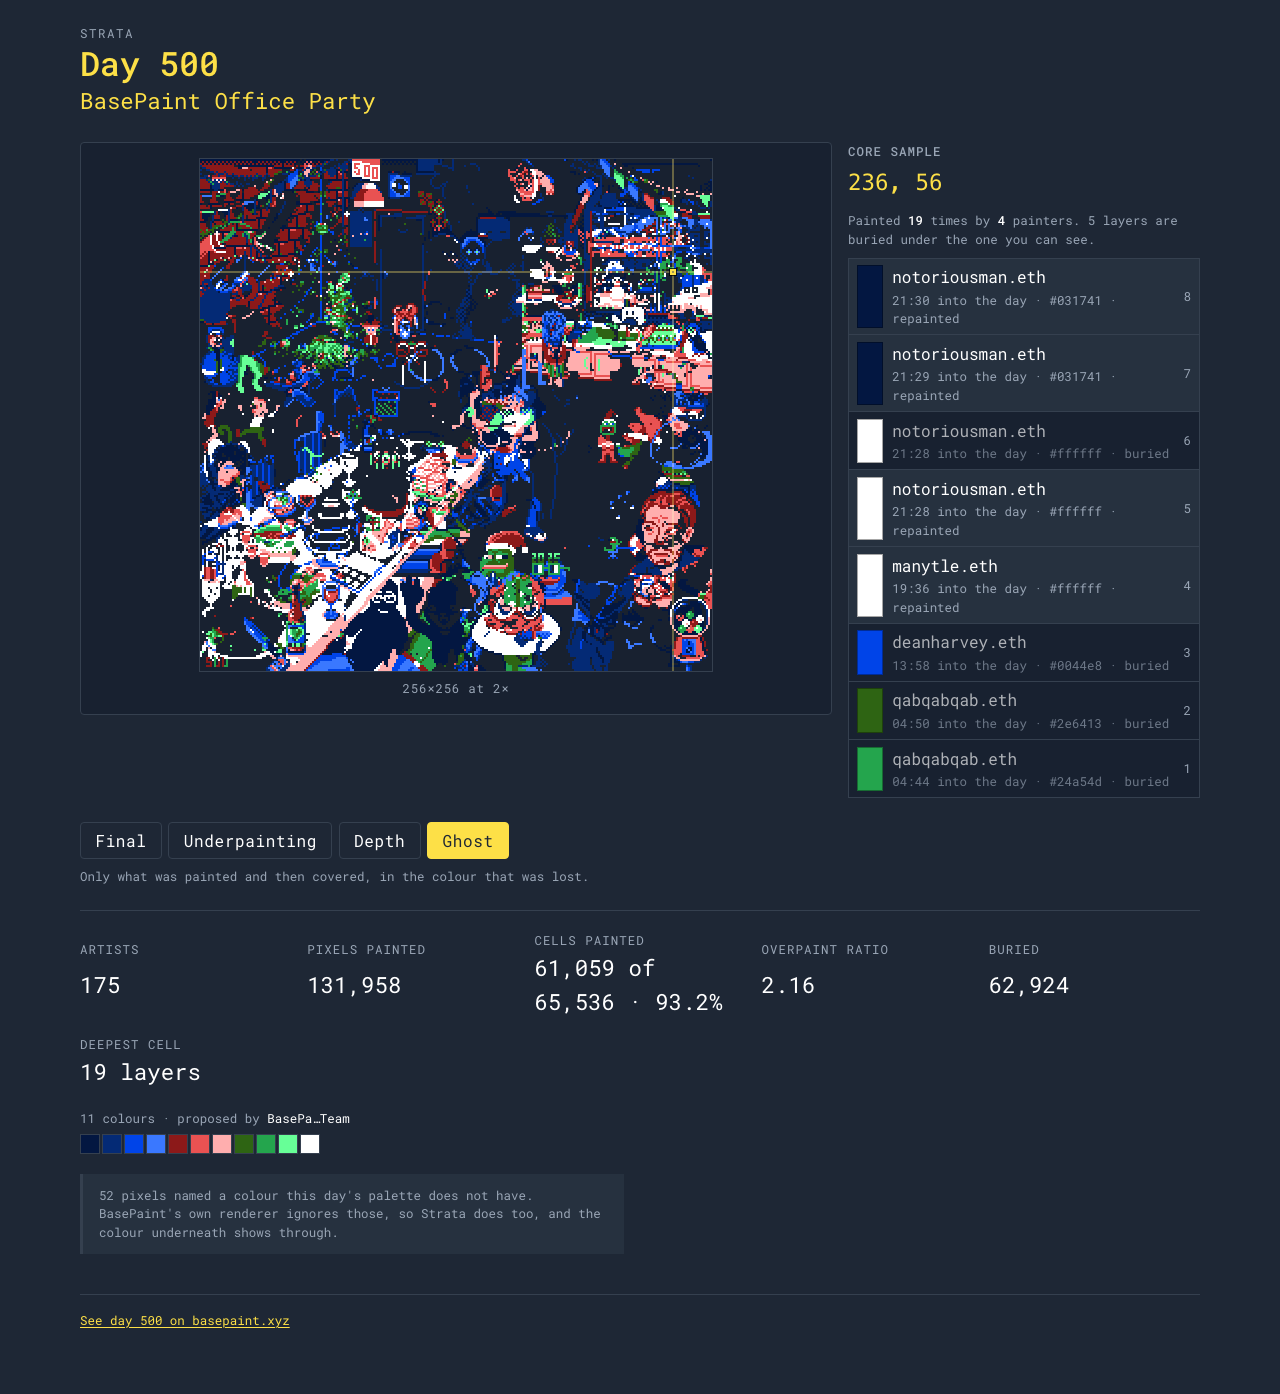
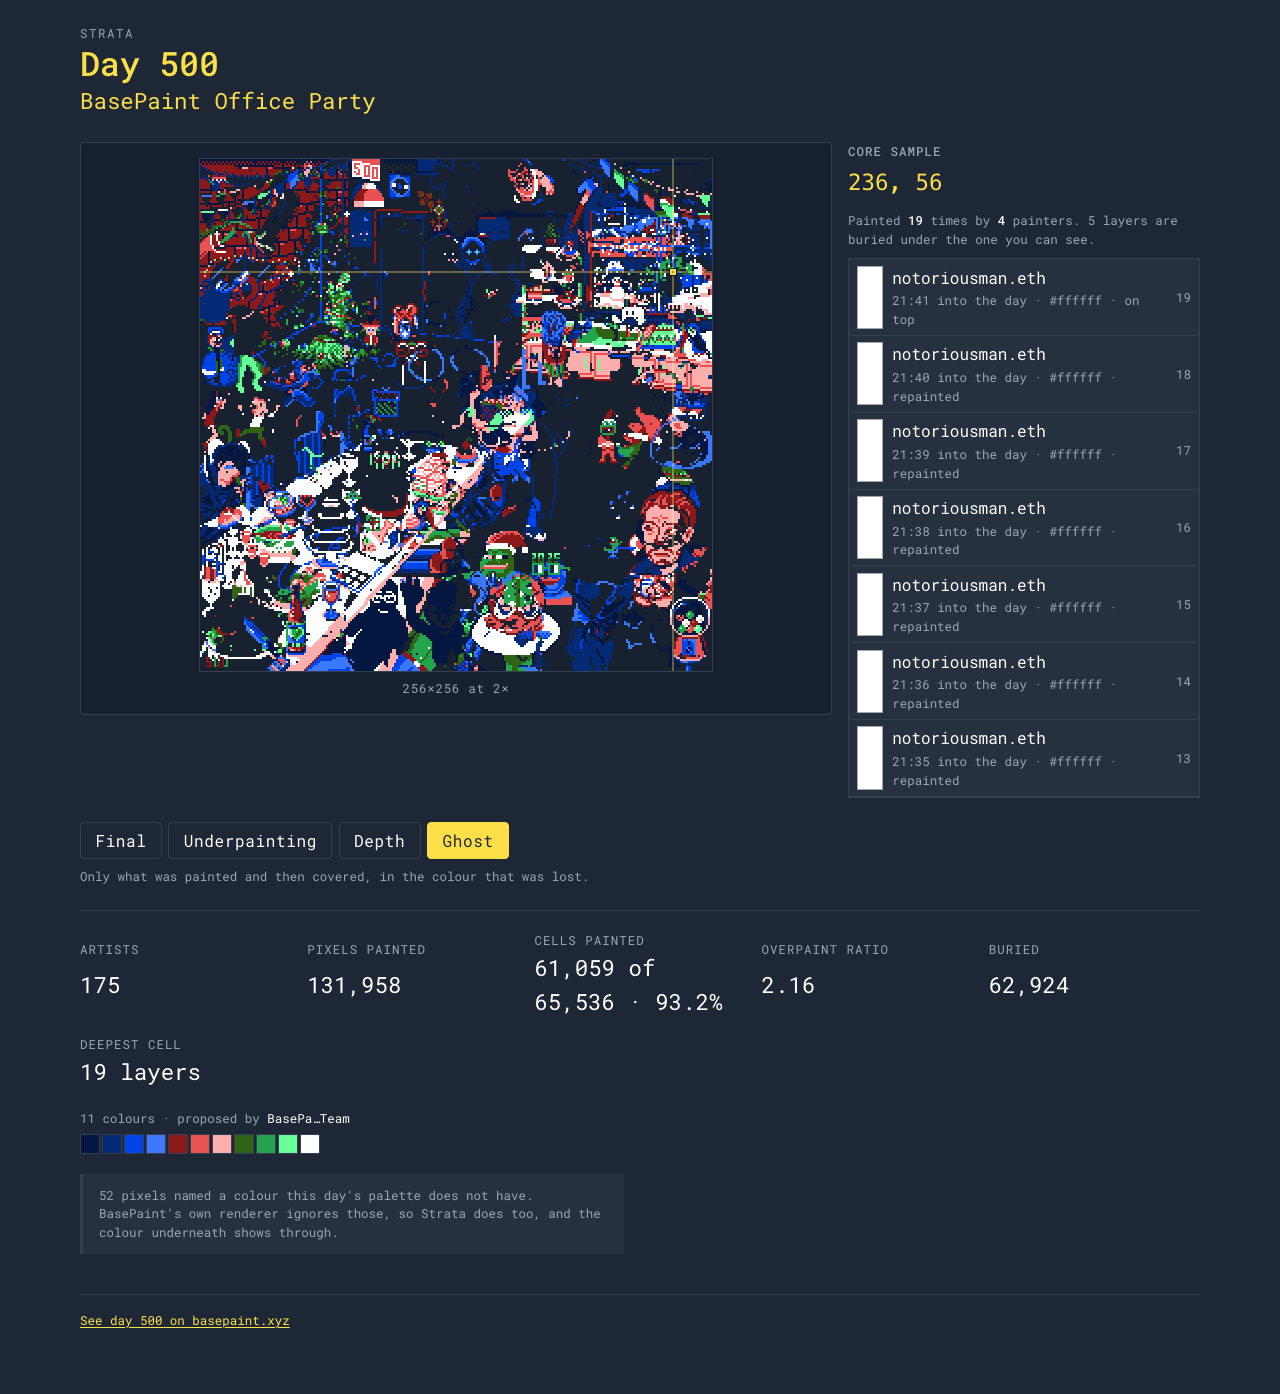
Phase 8, step 31 — the core sample was hiding the layer you can see
Found by opening day 500's deepest cell on a 390px screen. The summary said
"19 times by 4 painters. 5 layers are buried under the one you can see", and
the column below it showed layers 1 through 8 — none of them the one you can
see. The same thing happened at 1280px, where 11 of the 19 were unreachable.

The stack was chronological in the DOM and flipped on screen with
`flex-direction: column-reverse`. A reversed flex container pins its scroll
position to its first child, so once the stack was taller than its 60vh box
it opened on the oldest bands and clipped the newest off the top. Reversing
in the markup instead and dropping to `column` leaves the picture identical —
oldest still at the bottom — and opens on the surface, which is what the
sentence above it promises.

Reading down from the surface also puts keyboard focus in the order the eye
moves; it used to walk the column bottom to top. Band numbers still count
from the bottom of the core, so band 1 is the first colour ever laid here
whichever end you start from.

Tested through the rendered markup, since the order is the whole fix. The
README screenshot is regenerated against it.

Also checked in this pass, unchanged: focus is a 2px yellow outline on every
tab stop, arrow keys walk the canvas and the URL follows to ?px=238,57, and
390px holds the canvas at 1× with the column stacked underneath.

Changed region(s): [[0.6562, 0.1851, 0.8438, 0.5861]]

diff --git a/tests/coreSample-ui.test.tsx b/tests/coreSample-ui.test.tsx
@@ -1,0 +1,87 @@
+import { renderToStaticMarkup } from "react-dom/server";
+import { MemoryRouter } from "react-router-dom";
+import { describe, expect, it } from "vitest";
+
+import type { Band } from "../src/core/coreSample.ts";
+import { CoreSample } from "../src/ui/CoreSample.tsx";
+
+/**
+ * The column reads down from the surface, and the order it reads in is not
+ * cosmetic. It was once chronological in the DOM and flipped with CSS, which
+ * meant a stack taller than its scroll box opened on the oldest bands and hid
+ * the one still on the canvas — on a 390px screen, day 500's deepest cell showed
+ * eight of nineteen layers and none of them the visible one. Markup order is
+ * what fixes that, so markup order is what is tested.
+ */
+
+const OPENED_AT = 1_700_000_000;
+
+/** Four placements on one cell: green, white, white again, then blue on top. */
+const BANDS: readonly Band[] = [
+  { color: 1, artist: 0, time: OPENED_AT + 600, index: 4, buried: true },
+  { color: 2, artist: 1, time: OPENED_AT + 1200, index: 9, buried: false },
+  { color: 2, artist: 1, time: OPENED_AT + 1800, index: 15, buried: true },
+  { color: 3, artist: 2, time: OPENED_AT + 3600, index: 31, buried: false },
+];
+
+const ARTISTS = [
+  "0x1111111111111111111111111111111111111111",
+  "0x2222222222222222222222222222222222222222",
+  "0x3333333333333333333333333333333333333333",
+];
+
+const PALETTE = ["#000000", "#2e6413", "#ffffff", "#0044e8"];
+
+const html = renderToStaticMarkup(
+  <MemoryRouter>
+    <CoreSample
+      pixel={{ x: 236, y: 56 }}
+      bands={BANDS}
+      artists={ARTISTS}
+      palette={PALETTE}
+      openedAt={OPENED_AT}
+    />
+  </MemoryRouter>,
+);
+
+/** Every painter address in the order the markup puts them. */
+const painterOrder = (markup: string): string[] =>
+  [...markup.matchAll(/\/artist\/(0x[0-9a-f]+)/g)].map((match) => match[1]);
+
+describe("CoreSample", () => {
+  it("puts the band on the canvas first, and the first colour ever laid last", () => {
+    expect(painterOrder(html)).toEqual([ARTISTS[2], ARTISTS[1], ARTISTS[1], ARTISTS[0]]);
+  });
+
+  it("marks only the newest band as the one on top", () => {
+    expect(html.indexOf("· on top")).toBeLessThan(html.indexOf("· buried"));
+    expect([...html.matchAll(/· on top/g)]).toHaveLength(1);
+  });
+
+  it("numbers the bands from the bottom of the core, however they are read", () => {
+    const numbers = [...html.matchAll(/core-band-index"[^>]*>(\d+)</g)].map((m) => Number(m[1]));
+    expect(numbers).toEqual([4, 3, 2, 1]);
+  });
+
+  it("counts painters and buried layers rather than assuming one per band", () => {
+    // Two of the four bands were covered by a different colour; the repaint of
+    // white over white buried nothing, and one address painted twice.
+    expect(html).toContain("Painted <strong>4</strong> times by <strong>3</strong> painters");
+    expect(html).toContain("2 layers are buried");
+  });
+
+  it("says in words that nothing was ever painted on an untouched cell", () => {
+    const empty = renderToStaticMarkup(
+      <MemoryRouter>
+        <CoreSample
+          pixel={{ x: 0, y: 0 }}
+          bands={[]}
+          artists={ARTISTS}
+          palette={PALETTE}
+          openedAt={OPENED_AT}
+        />
+      </MemoryRouter>,
+    );
+    expect(empty).toContain("Nothing was ever painted here");
+  });
+});

diff --git a/src/ui/CoreSample.tsx b/src/ui/CoreSample.tsx
@@ -85,11 +85,19 @@ export function CoreSample({
                   : `${buried} ${buried === 1 ? "layer is" : "layers are"} buried under the one you can see.`}
               </p>
 
-              {/* Chronological in the DOM — a screen reader reads the day
-                  forwards — and reversed visually, so the oldest sits at the
-                  bottom like a real core. */}
+              {/* Newest first, in the DOM and on screen alike, so the oldest
+                  still sits at the bottom like a real core.
+
+                  This list was chronological in the DOM and flipped with
+                  `column-reverse`, which reads well until the stack is taller
+                  than its scroll box: a reversed flex container pins to its
+                  first child, so a nineteen-band cell opened on the oldest
+                  eight and hid the band actually on the canvas — the one the
+                  summary directly above calls "the one you can see". Reading
+                  down from the surface also puts keyboard focus in the order
+                  the eye moves. */}
               <ol className="core-stack">
-                {bands.map((band, index) => (
+                {bands.toReversed().map((band, index) => (
                   <li
                     key={band.index}
                     className={band.buried ? "core-band core-band-buried" : "core-band"}
@@ -111,8 +119,10 @@ export function CoreSample({
                         {band === top ? " · on top" : band.buried ? " · buried" : " · repainted"}
                       </span>
                     </span>
+                    {/* Depth, counted from the bottom of the core: band 1 is the
+                        first colour ever laid here, whichever end you read from. */}
                     <span className="core-band-index" aria-hidden="true">
-                      {index + 1}
+                      {bands.length - index}
                     </span>
                   </li>
                 ))}

diff --git a/src/ui/CoreSample.css b/src/ui/CoreSample.css
@@ -63,8 +63,10 @@
 
 .core-stack {
   display: flex;
-  /* Chronological in the DOM, reversed on screen: oldest at the bottom. */
-  flex-direction: column-reverse;
+  /* Newest first, matching the DOM. A `column-reverse` container pins its scroll
+     to the first child, which on a deep cell meant opening on the oldest bands
+     and clipping the one still on the canvas. */
+  flex-direction: column;
   gap: 1px;
   margin: 0;
   padding: 0;

diff --git a/README.md b/README.md
@@ -6,7 +6,7 @@ A BasePaint canvas is painted by hundreds of people over 24 hours, and pixels ge
 
 ![The ghost layer of day 500 — only the pixels that were painted and later covered, in the colour that was lost — with the core sample open on the day's most contested cell](docs/media/strata-day-500-ghost.png)
 
-*`/day/500?mode=ghost&px=236,56`. On the left, the ghost layer: everything that survived has been dropped out, so what is left is only paint that somebody else covered over. On the right, the core sample of cell (236,56) — nineteen layers deep, four painters, read bottom to top.*
+*`/day/500?mode=ghost&px=236,56`. On the left, the ghost layer: everything that survived has been dropped out, so what is left is only paint that somebody else covered over. On the right, the core sample of cell (236,56) — the deepest on the canvas, nineteen layers by four painters, read downward from the colour on the surface.*
 
 ## What it does
 
